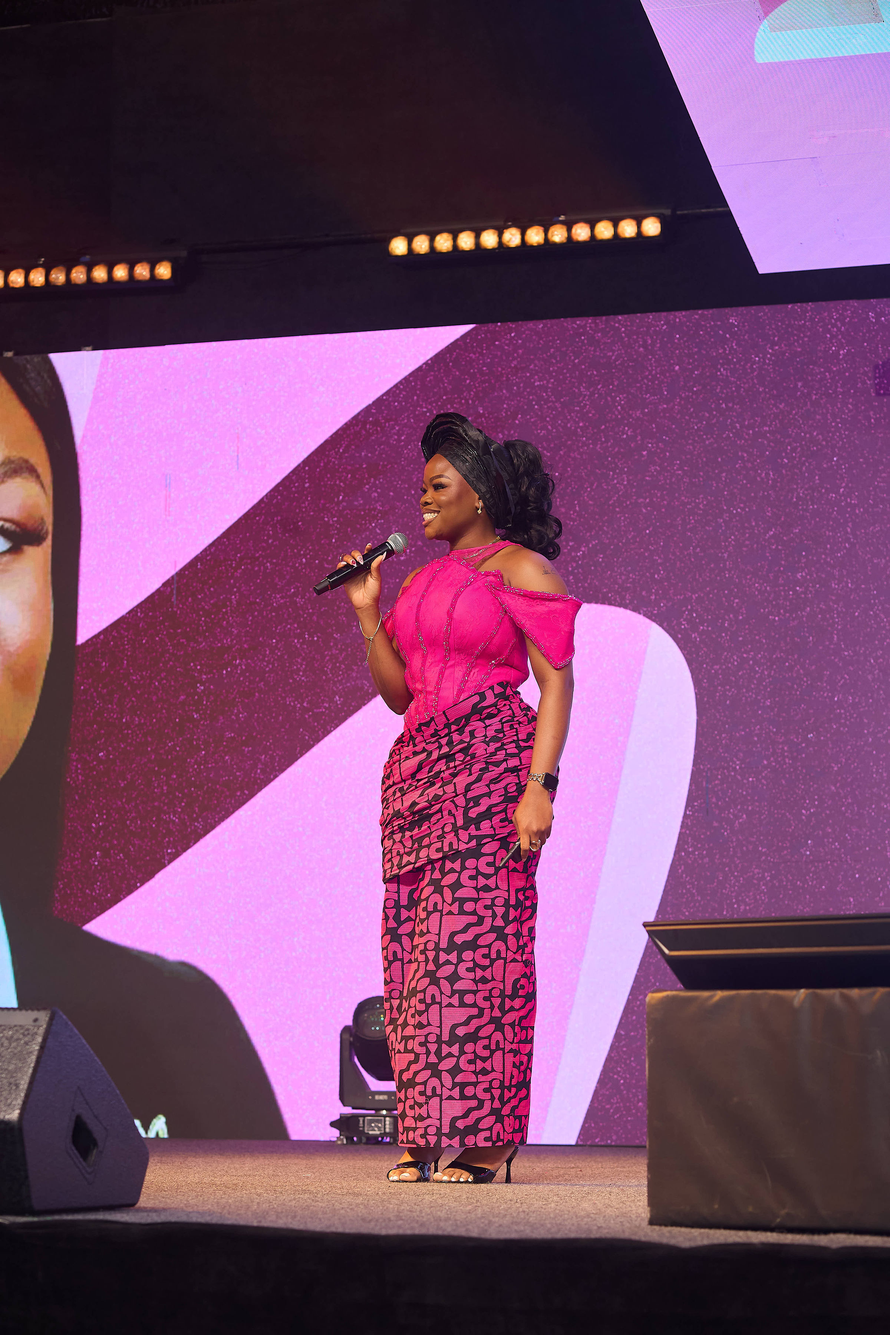
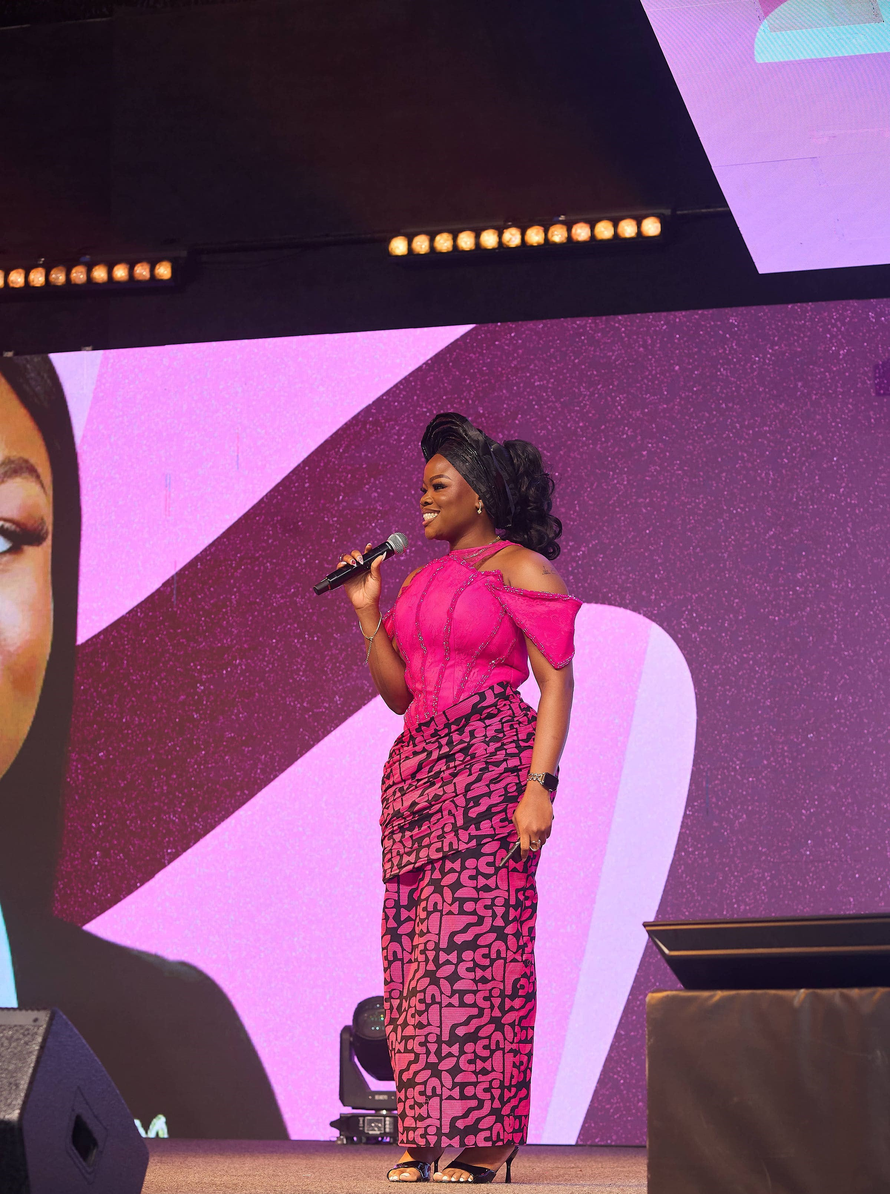
update ui

diff --git a/src/components/home/summit-highlights/SummitHighlightSections.tsx b/src/components/home/summit-highlights/SummitHighlightSections.tsx
@@ -60,16 +60,16 @@ const SummitHighlightSections = ({
               {/*  */}
               <article className="w-full  h-auto lg:max-w-86 rounded-[26.79px] flex items-center justify-center">
                 <div className="w-full mx-auto lg:max-w-[488.37px] py-10 lg:py-0">
-                  <h3 className="font-extrabold text-black font-mulish text-[36px] sm:text-[40px]  text-center">
+                  <h3 className="font-extrabold text-black font-mulish text-[36px] sm:leading-[41.88px] sm:text-[40px]  text-center">
                     {title}
                   </h3>
 
                   <a
                     href={url}
                     target="_blank"
-                    className="flex mx-auto mt-1.5 max-w-[138.76px] items-center justify-center h-[31.81px] rounded-[17.35px] bg-primary-magenta hover:bg-primary-dark-pink duration-300 transition-colors gap-1 text-white font-figtree text-xs"
+                    className="flex mx-auto mt-2.5 max-w-45.75 items-center justify-center h-13.75 rounded-[30px] bg-primary-magenta hover:bg-primary-dark-pink duration-300 transition-colors gap-1 text-white font-figtree text-base"
                   >
-                    Watch recap <ChevronRight size={13} />
+                    Watch recap <ChevronRight size={19} />
                   </a>
                 </div>
               </article>
@@ -86,46 +86,48 @@ const SummitHighlightSections = ({
         <>
           <div className="w-full space-y-2.5">
             <section className="w-full flex flex-col lg:flex-row gap-[19.11px]">
-              <figure className="w-full  overflow-hidden  h-[318.4px] rounded-[14.55px]">
+              <figure className="w-full  overflow-hidden  h-70 rounded-[14.55px]">
                 <img
                   src={images[0]}
                   alt="Summit Pictures"
                   className={`w-full h-full object-cover `}
                 />
               </figure>
-              <figure className="w-full  overflow-hidden  h-[318.4px] rounded-[14.55px]">
+              <figure className="w-full  overflow-hidden  h-70 rounded-[14.55px]">
                 <img
                   src={images[1]}
                   alt="Summit Pictures"
                   className={`w-full h-full object-cover `}
                 />
               </figure>
-              <figure className="w-full  overflow-hidden  h-[318.4px] rounded-[14.55px]">
+              <figure className="w-full  overflow-hidden  h-70 rounded-[14.55px]">
                 <img
                   src={images[2]}
                   alt="Summit Pictures"
-                  className={`w-full h-full object-cover `}
+                  className={`${highlightSection === "awards" ? "rotate-y-180" : ""} w-full h-full object-cover `}
                 />
               </figure>
             </section>
             {/* second section */}
-            <section className="w-full flex flex-col lg:flex-row gap-[19.11px]">
+            <section
+              className={`w-full flex flex-col  gap-[27.5px] ${highlightSection === "keynote" ? "lg:flex-row-reverse" : "lg:flex-row"}`}
+            >
               <article className="h-auto rounded-[26.79px] flex items-center ">
                 <div className="w-full lg:max-w-85.5 py-10 lg:py-0">
-                  <h3 className="font-extrabold text-black font-mulish text-[36px] sm:text-[40px]  ">
+                  <h3 className="font-bold text-black font-sans text-[34.2px]">
                     {title}
                   </h3>
 
-                  <p className="text-black mt-4.75 font-sans text-base font-medium">
+                  <p className="text-black mt-2 font-sans text-base font-medium">
                     {subtitle}
                   </p>
 
                   <a
                     href={url}
                     target="_blank"
-                    className="flex mt-2.5 max-w-[138.76px] items-center justify-center h-[31.81px] rounded-[17.35px] bg-primary-magenta hover:bg-primary-dark-pink duration-300 transition-colors gap-1 text-white font-figtree text-xs"
+                    className="flex mt-2.5 max-w-45.75 items-center justify-center h-13.75 rounded-[30px] bg-primary-magenta hover:bg-primary-dark-pink duration-300 transition-colors gap-1 text-white font-figtree text-base"
                   >
-                    Watch recap <ChevronRight size={13} />
+                    Watch recap <ChevronRight size={19} />
                   </a>
                 </div>
               </article>
@@ -146,56 +148,57 @@ const SummitHighlightSections = ({
         <>
           <div className="w-full space-y-2.5">
             <section className="w-full flex flex-col lg:flex-row gap-[19.11px]">
-              <figure className="w-full  overflow-hidden  h-[318.4px] rounded-[14.55px]">
+              <figure className="w-full  overflow-hidden  h-70 rounded-[14.55px]">
                 <img
                   src={images[0]}
                   alt="Summit Pictures"
                   className="w-full h-full object-cover"
                 />
               </figure>
-              <figure className="w-full  overflow-hidden  h-[318.4px] rounded-[14.55px]">
+              <figure className="w-full  overflow-hidden  h-70 rounded-[14.55px]">
                 <img
                   src={images[1]}
                   alt="Summit Pictures"
                   className="w-full h-full object-cover"
                 />
               </figure>
-              <figure className="w-full  overflow-hidden  h-[318.4px] rounded-[14.55px]">
+              <figure className="w-full  overflow-hidden  h-70 rounded-[14.55px]">
                 <img
                   src={images[2]}
                   alt="Summit Pictures"
-                  className={`w-full h-full object-cover ${highlightSection === "volunteer" ? "rotate-y-180" : ""}`}
+                  className={`w-full h-full object-cover`}
                 />
               </figure>
             </section>
             {/* second section */}
-            <section className=" w-full flex flex-col lg:flex-row gap-[19.11px]">
-              <figure className="w-full flex-1 h-[287.88px] overflow-hidden rounded-[15.49px]">
-                <img
-                  src={images[3]}
-                  alt="Summit Pictures"
-                  className="w-full h-full object-cover"
-                />
-              </figure>
+            <section className=" w-full flex flex-col lg:flex-row gap-[27.5px]">
               <article className="w-full  h-auto lg:max-w-86 rounded-[26.79px] flex items-center justify-center">
                 <div className="w-full py-10 lg:py-0">
-                  <h3 className="font-extrabold text-black font-mulish text-[36px] sm:text-[34.2px]">
+                  <h3 className="font-bold text-black font-sans text-[34.2px]">
                     {title}
                   </h3>
 
-                  <p className="text-black mt-2.5 font-sans text-base font-medium">
+                  <p className="text-black mt-2 font-sans text-base font-medium">
                     {subtitle}
                   </p>
 
                   <a
                     href={url}
                     target="_blank"
-                    className="flex mt-2.5 max-w-[138.76px] items-center justify-center h-[31.81px] rounded-[17.35px] bg-primary-magenta hover:bg-primary-dark-pink duration-300 transition-colors gap-1 text-white font-figtree text-xs"
+                    className="flex mt-2.5 max-w-45.75 items-center justify-center h-13.75 rounded-[30px] bg-primary-magenta hover:bg-primary-dark-pink duration-300 transition-colors gap-1 text-white font-figtree text-base"
                   >
-                    Watch recap <ChevronRight size={13} />
+                    Watch recap <ChevronRight size={19} />
                   </a>
                 </div>
               </article>
+
+              <figure className="w-full flex-1 h-81.5 overflow-hidden rounded-[15.49px]">
+                <img
+                  src={images[3]}
+                  alt="Summit Pictures"
+                  className="w-full h-full object-cover"
+                />
+              </figure>
             </section>
           </div>
         </>
@@ -205,21 +208,21 @@ const SummitHighlightSections = ({
         <>
           <div className="w-full space-y-2.5">
             <section className="w-full flex flex-col lg:flex-row gap-[19.11px]">
-              <figure className="w-full  overflow-hidden  h-[318.4px] rounded-[26.79px]">
+              <figure className="w-full  overflow-hidden  h-70 rounded-[26.79px]">
                 <img
                   src={images[0]}
                   alt="Summit Pictures"
                   className="w-full h-full object-cover"
                 />
               </figure>
-              <figure className="w-full  overflow-hidden  h-[318.4px] rounded-[26.79px]">
+              <figure className="w-full  overflow-hidden  h-70  rounded-[26.79px]">
                 <img
                   src={images[3]}
                   alt="Summit Pictures"
                   className="w-full h-full object-cover"
                 />
               </figure>
-              <figure className="w-full  overflow-hidden  h-[318.4px] rounded-[26.79px]">
+              <figure className="w-full  overflow-hidden  h-70  rounded-[26.79px]">
                 <img
                   src={images[1]}
                   alt="Summit Pictures"
@@ -228,8 +231,8 @@ const SummitHighlightSections = ({
               </figure>
             </section>
             {/* second section */}
-            <section className=" w-full flex flex-col lg:flex-row gap-[19.11px]">
-              <figure className="w-full h-[318.4px] overflow-hidden rounded-[26.79px]">
+            <section className=" w-full flex flex-col lg:flex-row gap-[27.5px]">
+              <figure className="w-full h-81.5 overflow-hidden rounded-[26.79px]">
                 <img
                   src={images[2]}
                   alt="Summit Pictures"
@@ -237,7 +240,7 @@ const SummitHighlightSections = ({
                 />
               </figure>
 
-              <figure className="w-full  h-[318.4px]  overflow-hidden rounded-[26.79px]">
+              <figure className="w-full  h-81.5  overflow-hidden rounded-[26.79px]">
                 <img
                   src={images[4]}
                   alt="Summit Pictures"
@@ -248,20 +251,20 @@ const SummitHighlightSections = ({
               {/* text */}
               <article className="w-full h-auto  rounded-[26.79px] flex items-center justify-center">
                 <div className="w-full py-10 lg:py-0">
-                  <h3 className="font-extrabold text-black font-mulish text-[36px] sm:text-[34.2px]">
+                  <h3 className="font-bold text-black font-sans text-[34.2px]">
                     {title}
                   </h3>
 
-                  <p className="text-black mt-2.5 font-sans text-base font-medium">
+                  <p className="text-black mt-2 font-sans text-base font-medium">
                     {subtitle}
                   </p>
 
                   <a
                     href={url}
                     target="_blank"
-                    className="flex mt-2.5 max-w-[138.76px] items-center justify-center h-[31.81px] rounded-[17.35px] bg-primary-magenta hover:bg-primary-dark-pink duration-300 transition-colors gap-1 text-white font-figtree text-xs"
+                    className="flex mt-2.5 max-w-45.75 items-center justify-center h-13.75 rounded-[30px] bg-primary-magenta hover:bg-primary-dark-pink duration-300 transition-colors gap-1 text-white font-figtree text-base"
                   >
-                    Watch recap <ChevronRight size={13} />
+                    Watch recap <ChevronRight size={19} />
                   </a>
                 </div>
               </article>

diff --git a/src/components/home/summit-highlights/KeynoteSessions.tsx b/src/components/home/summit-highlights/KeynoteSessions.tsx
@@ -12,7 +12,7 @@ const KeynoteSessions = () => {
         highlightSection="keynote"
         url="https://youtu.be/3zP1HKYcofk?si=O_v9PTs61gIXD5-X"
         title="Keynote Sessions"
-        images={[keynote1, keynote2, keynote3, keynote4, keynote5]}
+        images={[keynote1, keynote4, keynote2, keynote3, keynote5]}
         subtitle="The keynote sessions offered a moment to reflect on a decade of
                 progress and look ahead to what the next chapter could hold for
                 African women in technology. Grounded in the Summit's theme, the

diff --git a/src/components/home/summit-highlights/SummitHighlights.tsx b/src/components/home/summit-highlights/SummitHighlights.tsx
@@ -83,7 +83,7 @@ const SummitHighlights = () => {
   return (
     <section className="w-full embla">
       <div
-        className={`w-full py-12.5 px-4 sm:px-6 lg:px-8 transition-colors duration-700 ease-in-out ${sliderColors[selected]}`}
+        className={`w-full py-12 px-4 sm:px-6 lg:px-8 transition-colors duration-700 ease-in-out ${sliderColors[selected]}`}
       >
         <motion.h3
           initial="hidden"

diff --git a/src/components/home/NewsLetter.tsx b/src/components/home/NewsLetter.tsx
@@ -1,5 +1,5 @@
 import { motion } from "framer-motion";
-import wavyBg from "../../assets/ticket-bg-pattern.png";
+import wavyBg from "../../assets/ticket-bg.png";
 import { fadeUp, stagger, viewportOnce } from "../../utils/motion";
 
 export function Newsletter() {
